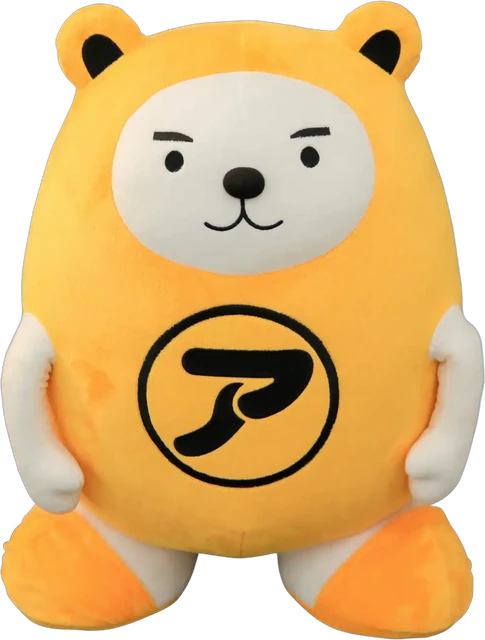
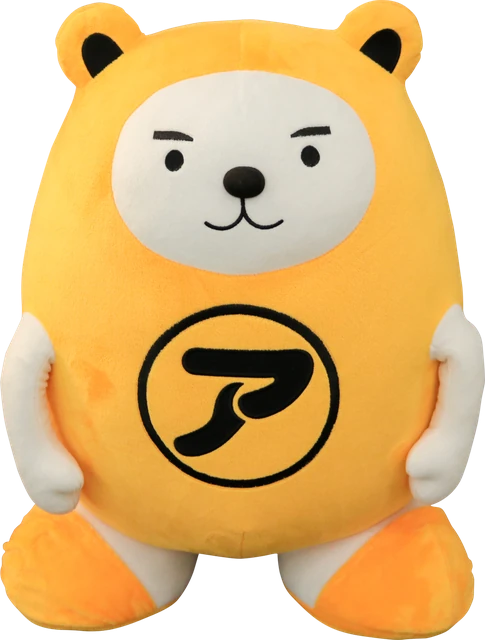
Unify Bear-kun and Hani-chan on official plush photos
Claude-Session: https://claude.ai/code/session_01ENgUrR5vF6T7skktdqBzYG

diff --git a/js/parts-catalog.js b/js/parts-catalog.js
@@ -968,12 +968,10 @@ PARTS_CATALOG.tcmMug = [
   MUG('dwarf1', '小人1', 60, 91), MUG('dwarf2', '小人2', 66, 90), MUG('dwarf3', '小人3', 66, 90), MUG('dwarf4', '小人4', 66, 90),
   MUG('dwarf5', '小人5', 60, 90), MUG('dwarf6', '小人6', 60, 90), MUG('dwarf7', '小人7', 66, 90),
 ];
-// アパマングループのキャラクター
+// アパマンショップ公式キャラクター（公式のぬいぐるみ写真で統一）
 PARTS_CATALOG.apaman = [
-  { id: 'apa-bear',       name: 'ベアくん',           trueColor: true, img: 'assets/apaman/bear.webp',       w: 108, h: 142 },
-  { id: 'apa-hani',       name: 'ハニちゃん',         trueColor: true, img: 'assets/apaman/hani_front.webp', w: 92,  h: 140 },
-  { id: 'apa-hani-side',  name: 'ハニちゃん（よこ）', trueColor: true, img: 'assets/apaman/hani_side.webp',  w: 87,  h: 132 },
-  { id: 'apa-hani-back',  name: 'ハニちゃん（うしろ）', trueColor: true, img: 'assets/apaman/hani_back.webp', w: 90,  h: 132 },
+  { id: 'apa-bear', name: 'べあ～君',   trueColor: true, img: 'assets/apaman/bear.webp', w: 112, h: 148 },
+  { id: 'apa-hani', name: 'ハニちゃん', trueColor: true, img: 'assets/apaman/hani.webp', w: 106, h: 141 },
 ];
 // 吊るすと自然なもの
 ['deco-ornament_red', 'deco-ornament_gold', 'deco-star', 'deco-bell', 'deco-wreath'].forEach((id) => {

diff --git a/js/maker.js b/js/maker.js
@@ -16,7 +16,7 @@ const State = {
 
 // パーツのカテゴリ（画像が入っているものだけ表示）
 const PART_CATEGORIES = [
-  ['tcmChara', '★くしゅまる'], ['tcm', '★TCMマーケット'], ['tcmMug', '★マグのなかま'], ['apaman', 'ベアくん＆ハニちゃん'], ['characters', 'キャラ'], ['porcelain', '磁器コレクション'], ['animals', 'どうぶつ'], ['people', 'ひと'], ['objects', 'オブジェ'],
+  ['tcmChara', '★くしゅまる'], ['tcm', '★TCMマーケット'], ['tcmMug', '★マグのなかま'], ['apaman', 'べあ～君＆ハニちゃん'], ['characters', 'キャラ'], ['porcelain', '磁器コレクション'], ['animals', 'どうぶつ'], ['people', 'ひと'], ['objects', 'オブジェ'],
   ['buildings', '街と乗り物'], ['nature', '木と自然'], ['food', '食べもの'], ['toys', '雑貨・おもちゃ'], ['decorations', 'デコ'],
 ];
 
